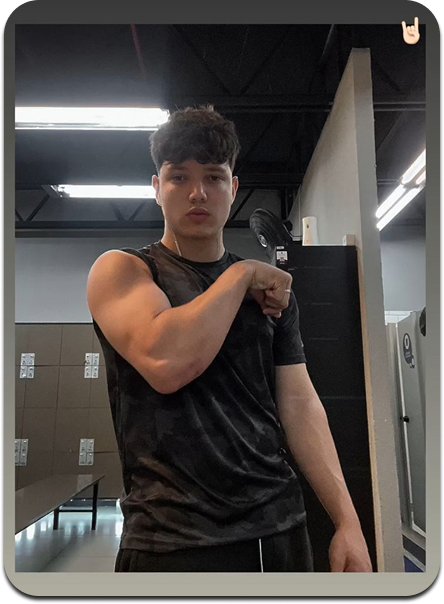
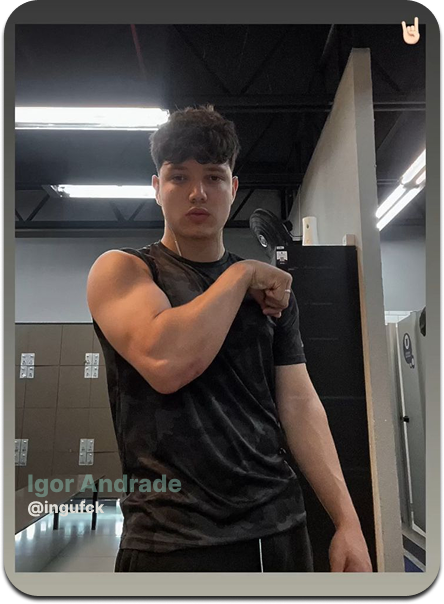
modo desktop feito

Changed region(s): [[0.0586, 0.7748, 0.4099, 0.8642]]

diff --git a/src/Pages/Produto.jsx b/src/Pages/Produto.jsx
@@ -10,58 +10,157 @@ import setaesquerda from "../assets/setaesquerda.png"
 import setadireita from "../assets/setadireita.png"
 import setaEsquerdaEscuro from "../assets/setaEsquerdaEscuro.png"
 import setaDireitaEscuro from "../assets/setaDireitaEscuro.png"
+import React, { useState } from "react";
+
+const produtos = [
+    {
+      nome: "Filamento PLA Azul Claro",
+      descricao: "1,75mm",
+      preco: "R$87",
+      imagem: filamento,
+      corNome: "text-filamento",
+      corDescricao: "text-filamento2",
+    },
+    {
+      nome: "Display Lcd Tft Touchscreen",
+      descricao: "3.5 320 x 480",
+      preco: "R$194",
+      imagem: display,
+      corNome: "text-display",
+      corDescricao: "text-display2",
+    },
+    {
+      nome: "Micro Servo Motor (4 unid.)",
+      descricao: "9g Sg90",
+      preco: "R$52",
+      imagem: servo,
+      corNome: "text-servo",
+      corNomeEscuro: "dark:text-servo3",
+      corDescricaoEscuro: "dark:text-servo4",
+      corDescricao: "text-servo2"
+    },
+    {
+      nome: "Módulo Mp3 Dfplayer",
+      descricao: "Mini para arduino",
+      preco: "R$26",
+      imagem: modulo,
+      corNome: "text-modulo",
+      corDescricao: "text-modulo2",
+      corDescricaoEscuro: "dark:text-background",
+    },
+    {
+      nome: "Microfone Omnidirecional",
+      descricao: "Inmp441 precision l2c",
+      preco: "R$33",
+      imagem: microfone,
+      corNome: "text-microfone",
+      corNomeEscuro: "dark:text-background",
+      corDescricao: "text-microfone2"
+    },
+    {
+      nome: "Esp32",
+      descricao: "wifi bluetooth",
+      preco: "R$46",
+      imagem: esp32,
+      corNome: "text-microfone",
+      corNomeEscuro: "dark:text-background",
+      corDescricao: "text-esp322"
+    },
+    {
+      nome: "Projeto pronto",
+      descricao: "McBmo",
+      preco: "R$438",
+      imagem: projeto,
+      corNome: "text-filamento",
+      corDescricao: "text-servo"
+    }
+  ];
 
 export function Produto() {
+    const [indexAtivo, setIndexAtivo] = useState(0);
+    const prevProduto = () => {
+        setIndexAtivo((prev) => (prev === 0 ? produtos.length - 1 : prev - 1));
+    };
+    const nextProduto = () => {
+        setIndexAtivo((prev) => (prev === produtos.length - 1 ? 0 : prev + 1));
+    };
+    const produto = produtos[indexAtivo];
+
     return(
         <div className="bg-background dark:bg-background-header bg-cover min-h-screen">
             <Header />
-            <div className="flex">
-                <img src={setaesquerda} alt="seta esquerda" className="block dark:hidden"/>
-                <img src={setadireita} alt="seta direita" className="block dark:hidden"/>
-                <img src={setaEsquerdaEscuro} alt="seta esquerda escura" className="hidden dark:block"/>
-                <img src={setaDireitaEscuro} alt="seta direita escura" className="hidden dark:block"/>
-                <div>
-                    <img src={filamento} alt="filamento" />
-                    <p className="text-filamento">Filamento PLA Azul Claro</p>
-                    <p className="text-filamento2">1,75mm</p>
-                    <p className="text-amarelo bg-dark-green dark:bg-filamento2 dark:text-servo">R$87</p>
+            <div className="flex justify-center items-center gap-10 pt-30 font-inter px-10">
+
+                <div className="flex flex-col items-end gap-20">
+                    <div className="w-120">
+                        <h2 className={`text-4xl font-bold ${produto.corNome} ${produto.corNomeEscuro}`}>
+                            {produto.nome}
+                        </h2>
+                        <h2 className={`text-xl font-bold ${produto.corDescricao} ${produto.corDescricaoEscuro}`}>
+                            {produto.descricao}
+                        </h2>
+                    </div>
+                    <span className="text-amarelo bg-dark-green dark:bg-filamento2 dark:text-servo text-xl px-3 py-1">
+                        {produto.preco}
+                    </span>
                 </div>
-                <div>
-                    <img src={display} alt="display" />
-                    <p className="text-display">Display Lcd Tft Touchscreen</p>
-                    <p className="text-display2">3.5 320 x 480</p>
-                    <p className="text-amarelo bg-dark-green dark:bg-filamento2 dark:text-servo">R$194</p>
+
+                <div className="flex items-center">
+                    <img onClick={prevProduto} src={setaesquerda} alt="seta esquerda" className="block dark:hidden"/>
+                    <img onClick={prevProduto} src={setaEsquerdaEscuro} alt="seta esquerda escura" className="hidden dark:block"/>
+
+                    <img src={produto.imagem} alt={produto.nome} className="w-110 h-110" />
+
+                    <img onClick={nextProduto} src={setadireita} alt="seta direita" className="block dark:hidden"/>
+                    <img onClick={nextProduto} src={setaDireitaEscuro} alt="seta direita escura" className="hidden dark:block"/>
                 </div>
-                <div>
-                    <img src={servo} alt="servo" />
-                    <p className="text-servo dark:text-servo3">Micro Servo Motor (4 unid.)</p>
-                    <p className="text-servo2 dark:text-servo4">9g Sg90</p>
-                    <p className="text-amarelo bg-dark-green dark:bg-filamento2 dark:text-servo">R$52</p>
+                
+                {/* só pra garantir deixa ai a vergonha da burrice */}
+                <div className="hidden">
+                    <div>
+                        <img src={filamento} alt="filamento" />
+                        <p className="text-filamento">Filamento PLA Azul Claro</p>
+                        <p className="text-filamento2">1,75mm</p>
+                        <p className="text-amarelo bg-dark-green dark:bg-filamento2 dark:text-servo">R$87</p>
+                    </div>
+                    <div>
+                        <img src={display} alt="display" />
+                        <p className="text-display">Display Lcd Tft Touchscreen</p>
+                        <p className="text-display2">3.5 320 x 480</p>
+                        <p className="text-amarelo bg-dark-green dark:bg-filamento2 dark:text-servo">R$194</p>
+                    </div>
+                    <div>
+                        <img src={servo} alt="servo" />
+                        <p className="text-servo dark:text-servo3">Micro Servo Motor (4 unid.)</p>
+                        <p className="text-servo2 dark:text-servo4">9g Sg90</p>
+                        <p className="text-amarelo bg-dark-green dark:bg-filamento2 dark:text-servo">R$52</p>
+                    </div>
+                    <div>
+                        <img src={modulo} alt="modulo" />
+                        <p className="text-modulo">Módulo Mp3 Dfplayer</p>
+                        <p className="text-modulo2 dark:text-background">Mini para arduino</p>
+                        <p className="text-amarelo bg-dark-green dark:bg-filamento2 dark:text-servo">R$26</p>
+                    </div>
+                    <div>
+                        <img src={microfone} alt="microfone" />
+                        <p className="text-microfone dark:text-background">Microfone Omnidirecional</p>
+                        <p className="text-microfone2">Inmp441 precision l2c</p>
+                        <p className="text-amarelo bg-dark-green dark:bg-filamento2 dark:text-servo">R$33</p>
+                    </div>
+                    <div>
+                        <img src={esp32} alt="esp32" />
+                        <p className="text-microfone dark:text-background">Esp32</p>
+                        <p className="text-esp322">wifi bluetooth</p>
+                        <p className="text-amarelo bg-dark-green dark:bg-filamento2 dark:text-servo">R$46</p>
+                    </div>
+                    <div>
+                        <img src={projeto} alt="projeto" />
+                        <p className="text-filamento">Projeto pronto</p>
+                        <p className="text-servo">McBmo</p>
+                        <p className="text-amarelo bg-dark-green dark:bg-filamento2 dark:text-servo">R$438</p>
+                    </div>
                 </div>
-                <div>
-                    <img src={modulo} alt="modulo" />
-                    <p className="text-modulo">Módulo Mp3 Dfplayer</p>
-                    <p className="text-modulo2 dark:text-background">Mini para arduino</p>
-                    <p className="text-amarelo bg-dark-green dark:bg-filamento2 dark:text-servo">R$26</p>
-                </div>
-                <div>
-                    <img src={microfone} alt="microfone" />
-                    <p className="text-microfone dark:text-background">Microfone Omnidirecional</p>
-                    <p className="text-microfone2">Inmp441 precision l2c</p>
-                    <p className="text-amarelo bg-dark-green dark:bg-filamento2 dark:text-servo">R$33</p>
-                </div>
-                <div>
-                    <img src={esp32} alt="esp32" />
-                    <p className="text-microfone dark:text-background">Esp32</p>
-                    <p className="text-esp322">wifi bluetooth</p>
-                    <p className="text-amarelo bg-dark-green dark:bg-filamento2 dark:text-servo">R$46</p>
-                </div>
-                <div>
-                    <img src={projeto} alt="projeto" />
-                    <p className="text-filamento">Projeto pronto</p>
-                    <p className="text-servo">McBmo</p>
-                    <p className="text-amarelo bg-dark-green dark:bg-filamento2 dark:text-servo">R$438</p>
-                </div>
+                
             </div>
         </div>
     )

diff --git a/src/Pages/SobreNos.jsx b/src/Pages/SobreNos.jsx
@@ -12,67 +12,61 @@ import decoracao from "../assets/decoracaoContato.png"
 import telefoneEscuro from "../assets/telefoneEscuro.png"
 import emailEscuro from "../assets/emailEscuro.png"
 
+const images = [
+    maria,
+    igor,
+    julia,
+    pedro,
+    ana,
+  ];
+
 export function SobreNos() {
     return(
         <div className="bg-background dark:bg-background-header bg-cover min-h-screen">
             <Header />
-            <div className="flex flex-col gap-30">
-                <div className="flex">
-                    <div>
-                        <img src={maria} alt="Maria" />
-                        <p className="text-green-button">Maria Clara Alves</p>
-                        <p className="text-background">@mahx_013</p>
-                    </div>
-                    <div>
-                        <img src={igor} alt="Igor" />
-                        <p className="text-green-button">Igor Andrade</p>
-                        <p className="text-background">@ingufck</p>
-                    </div>
-                    <div>
-                        <img src={julia} alt="Julia" />
-                        <p className="text-green-button">Julia Maciel</p>
-                        <p className="text-background">@juliaz.x</p>
-                    </div>
-                    <div>
-                        <img src={pedro} alt="Pedro" />
-                        <p className="text-green-button">Pedro Moura</p>
-                        <p className="text-background">@mourapms15</p>
-                    </div>
-                    <div>
-                        <img src={ana} alt="Ana" />
-                        <p className="text-green-button">Ana Julia Oliveira</p>
-                        <p className="text-background">@anajulia.o12</p>
-                    </div>
-                </div>
-                <div className="flex justify-center gap-30">            
-                    <div className="flex justify-center bg-gray-input px-10 py-15 w-fit rounded-sm">
-                        <div className="bg-background flex flex-col  w-120 gap-5 p-10 rounded-sm">
-                            <textarea className="border bg-green-input w-100 pl-2 text-background-header rounded-sm" placeholder="Nome"></textarea>
-                            <textarea className="border bg-green-input w-100 pl-2 text-background-header rounded-sm" placeholder="Email"></textarea>
-                            <textarea className="border bg-green-input w-100 pl-2 text-background-header rounded-sm h-50" placeholder="Mensagem"></textarea>
-                            <button className="bg-background-header w-40 p-2 text-lg cursor-pointer text-background rounded-sm">Enviar mensagem</button>
-                        </div>
+            <div className="flex flex-col">
+                <div className="flex flex-col gap-30">
+                    <div className="flex pt-20 gap-10 justify-center">
+                        {images.map((src, index) => (
+                            <div key={index} className="relative overflow-hidden rounded-2xl cursor-pointer transition-all duration-300 ease-in-out">
+                            <img src={src} alt={`imagem-${index}`} className="object-cover rounded-xl h-120 w-30 hover:w-100 transition-all duration-300 ease-in-out hover:border-2 hover:border-yellow-500"/>
+                            </div>
+                        ))}
                     </div>
 
-                    <div className="flex flex-col items-center gap-20">
-                        <h2 className="text-5xl text-background-header dark:text-background">ENTRE EM CONTATO</h2>
-                        <div className="flex gap-10">
-                            <div className="flex flex-col justify-center items-center gap-10">
-                                <img className="w-10 block dark:hidden" src={telefone} alt="telefone" />
-                                <img className="w-10 hidden dark:block" src={telefoneEscuro} alt="telefone escuro" />
-                                <p className="text-background-header dark:text-green-contato">(11) 97076-5240</p>
+                    <div className="flex justify-center gap-30">            
+                        <div className="flex justify-center bg-gray-input px-10 py-15 w-fit rounded-sm">
+                            <div className="bg-background flex flex-col  w-120 gap-5 p-10 rounded-sm">
+                                <textarea className="border bg-green-input w-100 pl-2 text-background-header rounded-sm" placeholder="Nome"></textarea>
+                                <textarea className="border bg-green-input w-100 pl-2 text-background-header rounded-sm" placeholder="Email"></textarea>
+                                <textarea className="border bg-green-input w-100 pl-2 text-background-header rounded-sm h-50" placeholder="Mensagem"></textarea>
+                                <button className="bg-background-header w-40 p-2 text-lg cursor-pointer text-background rounded-sm">Enviar mensagem</button>
                             </div>
-                            <img className="block dark:hidden" src={linha} alt="" />
-                            <img className="hidden dark:block" src={linhaEscura} alt="" />
-                            <div className="flex flex-col justify-center items-center gap-10">
-                                <img className="w-10 block dark:hidden" src={email} alt="email" />
-                                <img className="w-10 hidden dark:block" src={emailEscuro} alt="email escuro" />
-                                <p className="text-background-header dark:text-green-contato">mc.bmo@eaportal.org</p>
+                        </div>
+
+                        <div className="flex flex-col items-center gap-20">
+                            <h2 className="text-5xl text-background-header dark:text-background">ENTRE EM CONTATO</h2>
+                            <div className="flex gap-10">
+                                <div className="flex flex-col justify-center items-center gap-10">
+                                    <img className="w-10 block dark:hidden" src={telefone} alt="telefone" />
+                                    <img className="w-10 hidden dark:block" src={telefoneEscuro} alt="telefone escuro" />
+                                    <p className="text-background-header dark:text-green-contato">(11) 97076-5240</p>
+                                </div>
+                                <img className="block dark:hidden" src={linha} alt="" />
+                                <img className="hidden dark:block" src={linhaEscura} alt="" />
+                                <div className="flex flex-col justify-center items-center gap-10">
+                                    <img className="w-10 block dark:hidden" src={email} alt="email" />
+                                    <img className="w-10 hidden dark:block" src={emailEscuro} alt="email escuro" />
+                                    <p className="text-background-header dark:text-green-contato">mc.bmo@eaportal.org</p>
+                                </div>
                             </div>
                         </div>
                     </div>
                 </div>
-                <img className="w-300" src={decoracao} alt="" />
+                
+                <div className="flex justify-end">
+                    <img className="w-200" src={decoracao} alt="" />
+                </div>
             </div>
         </div>
     )
